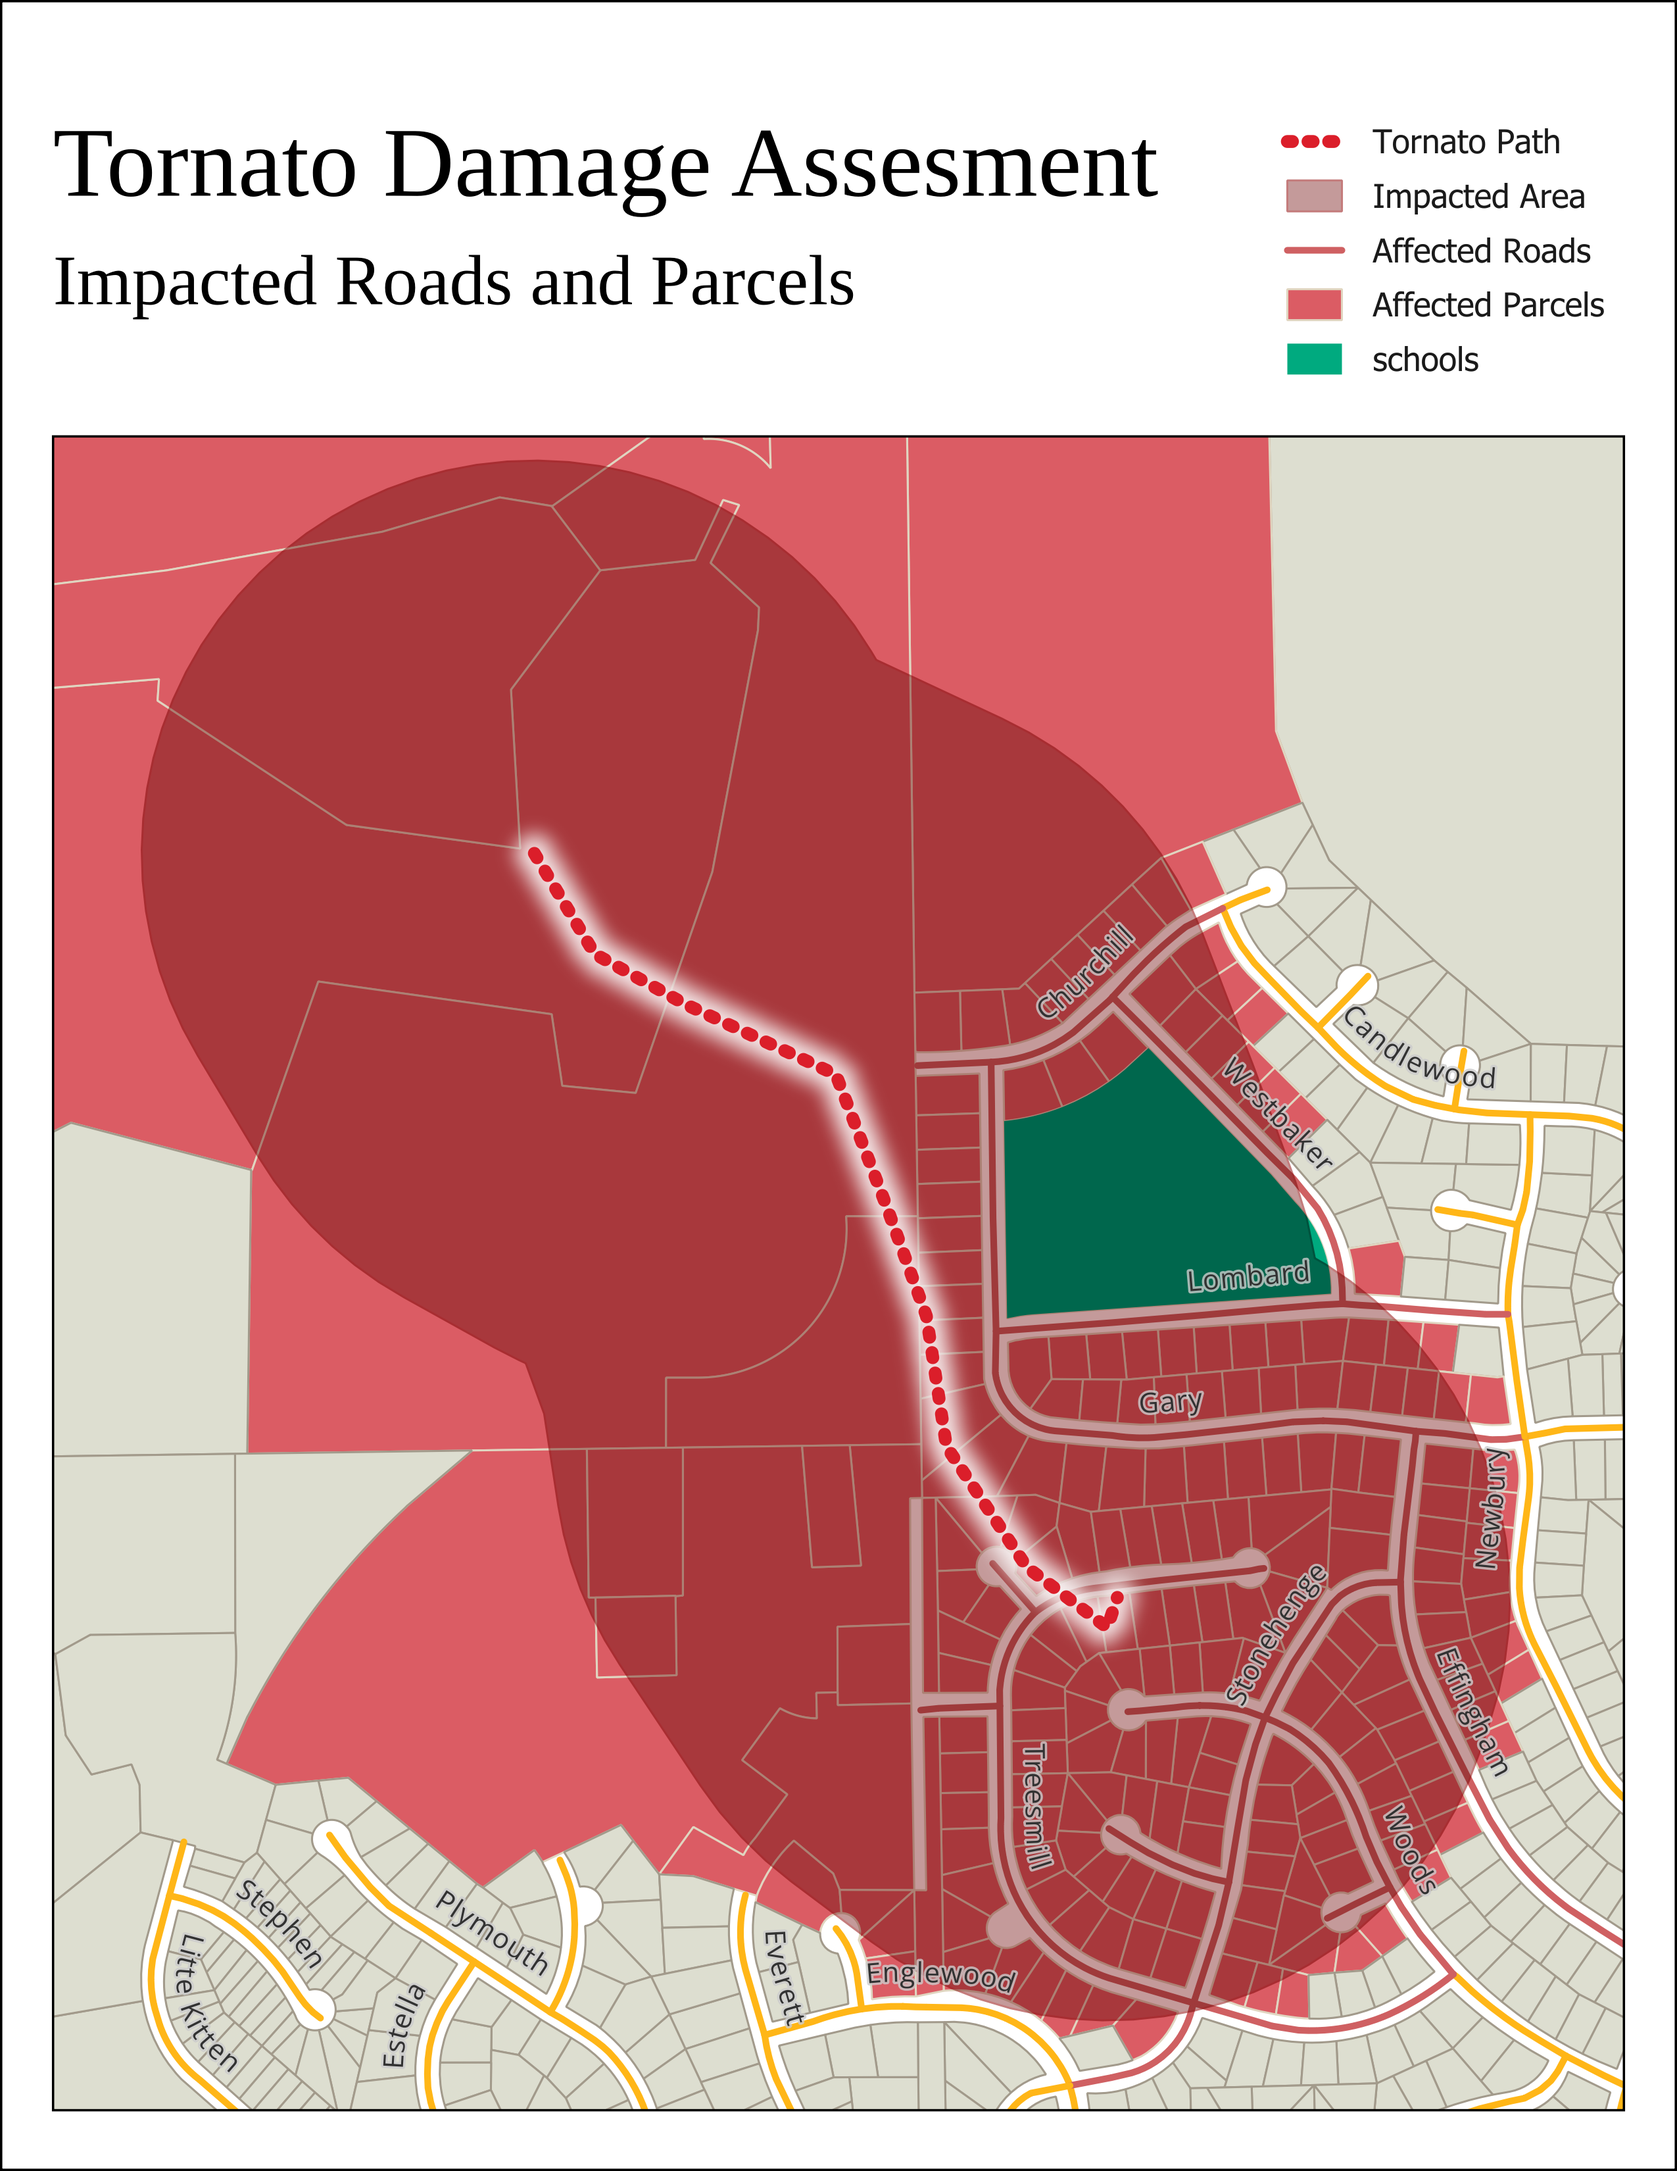
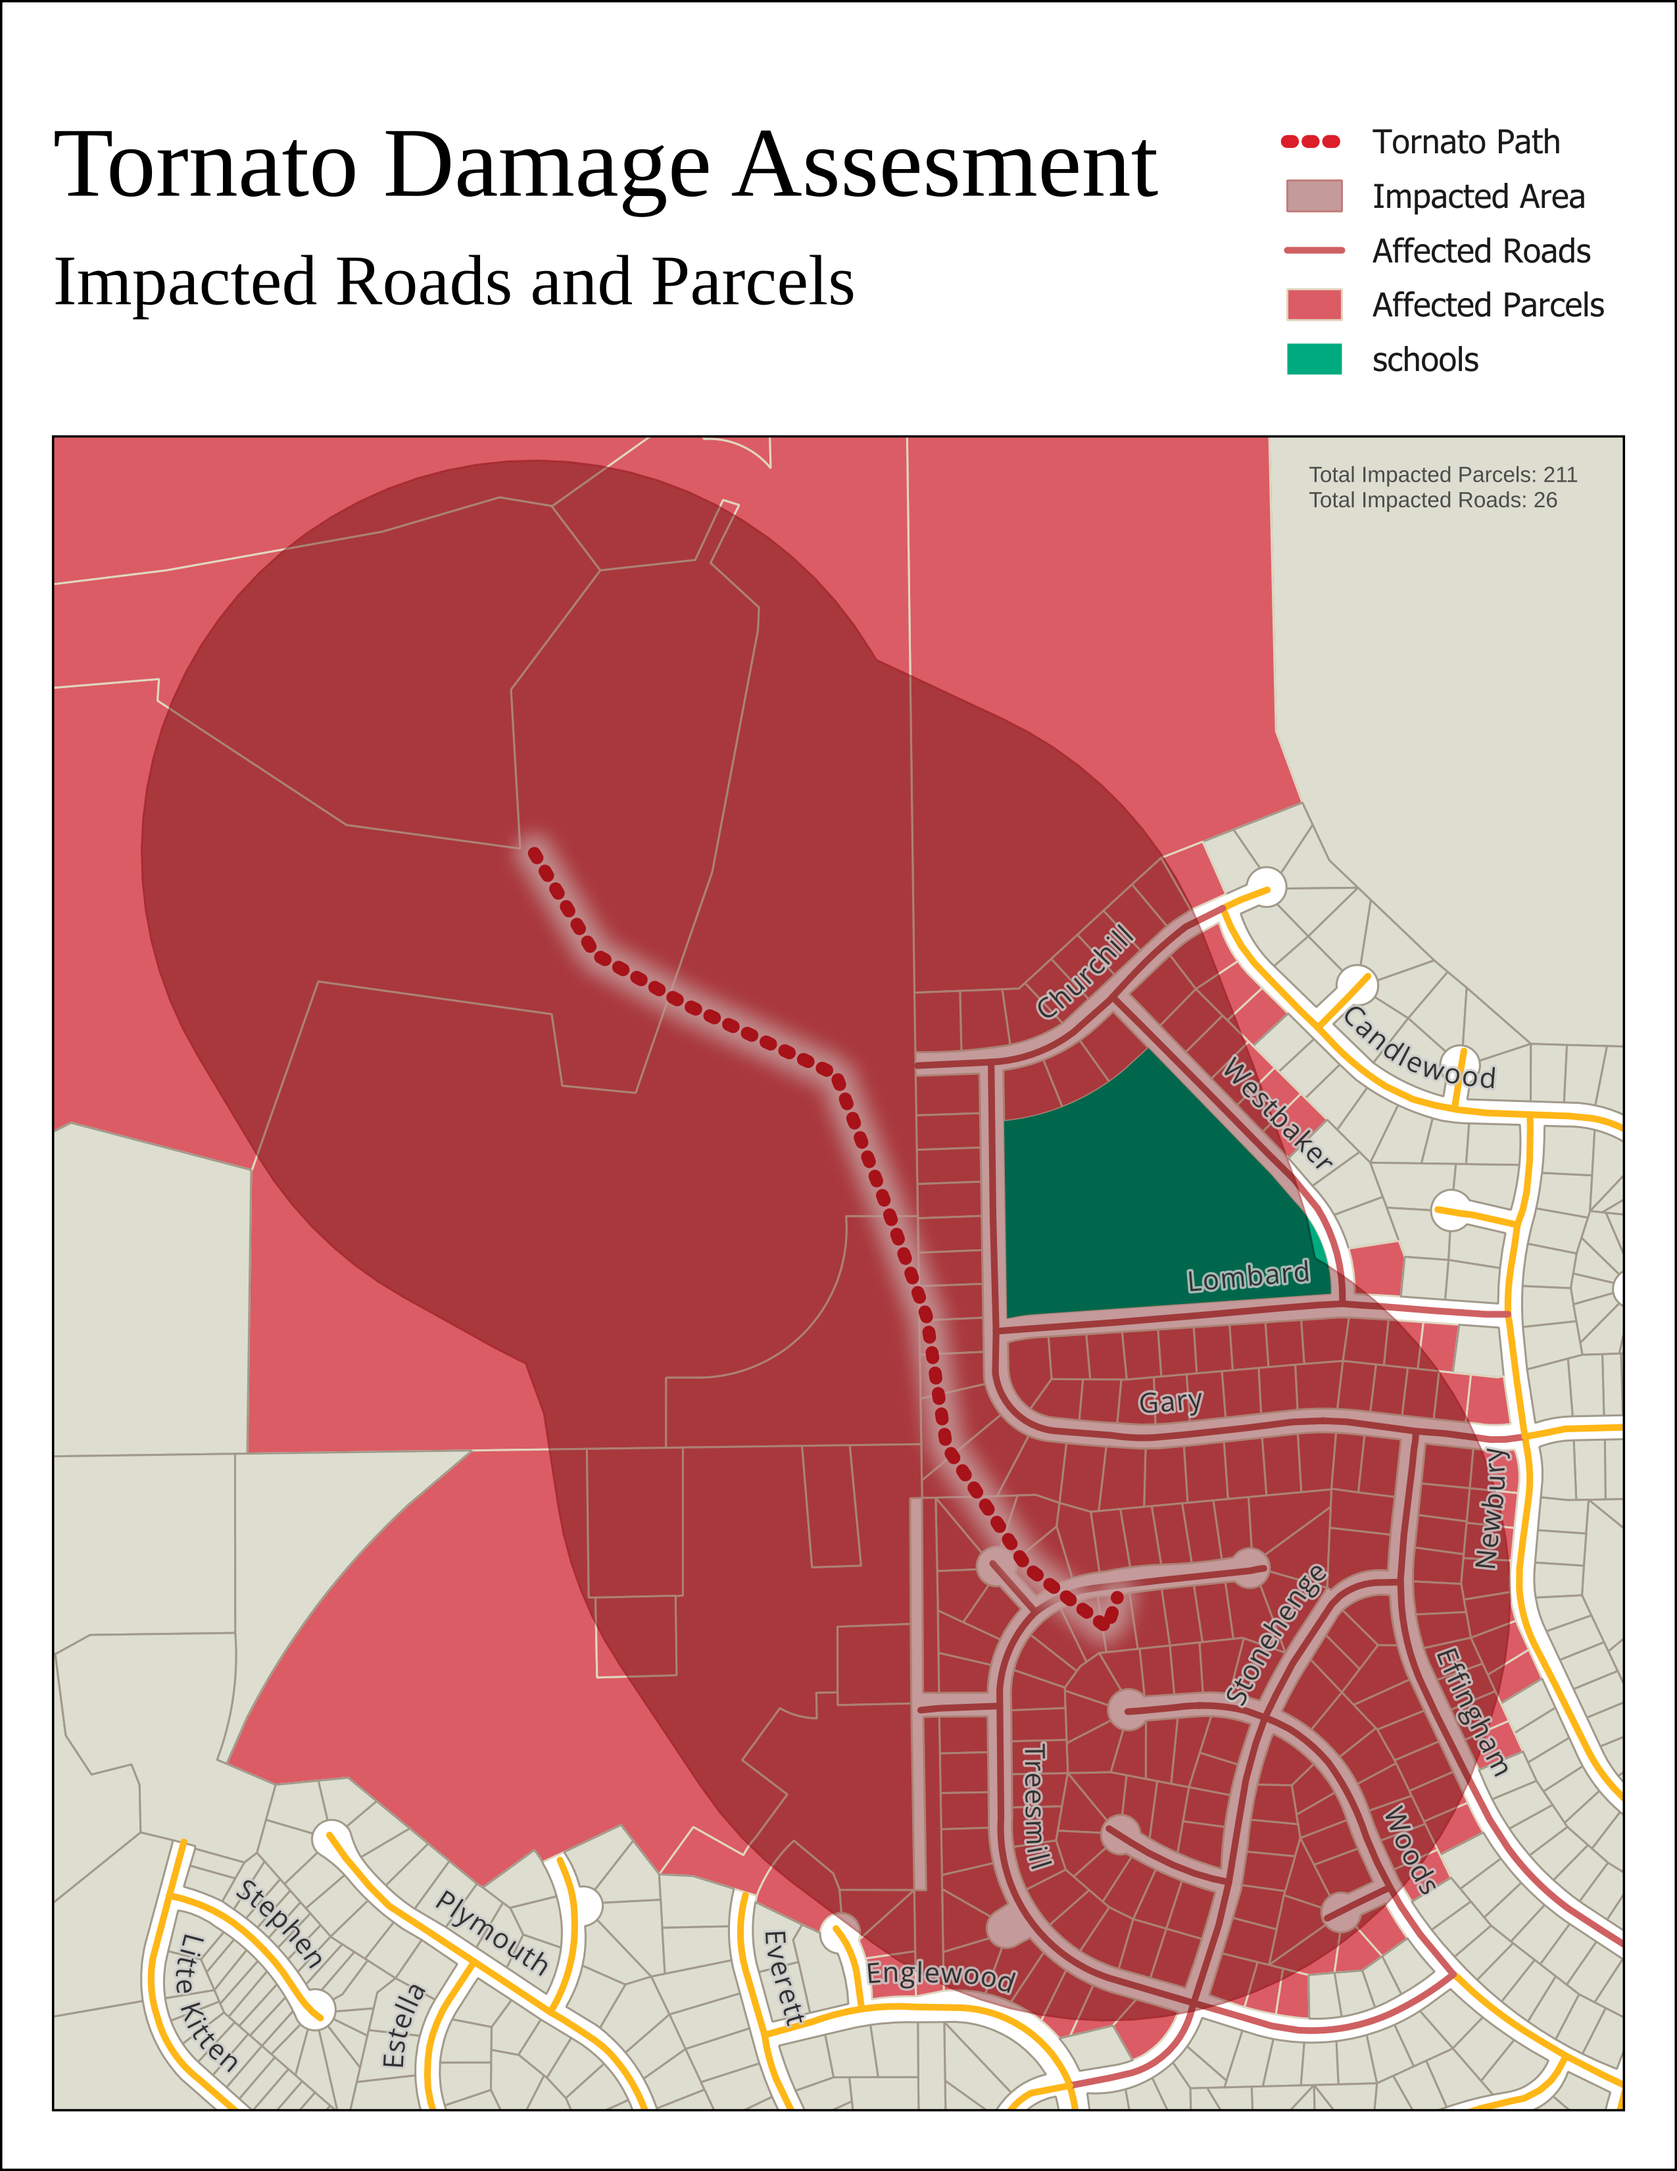
Updates

Changed region(s): [[0.3098, 0.3745, 0.6816, 0.7803], [0.7745, 0.2185, 0.9294, 0.2497]]

diff --git a/pages/discover-qgis-maps.html b/pages/discover-qgis-maps.html
@@ -22,6 +22,8 @@
         <div class="navbar">
             <ul>
                 <li><a>Riley Buoen</a></li>
+                <li><a href="#spatial-analysis" class="nav-links" style="font-size: 0.9em;">Spatial Analysis</a></li>
+                <li><a href="#data-management" class="nav-links" style="font-size: 0.9em;">Data Acquisition and Management</a></li>
                 <li><a href="../index.html" class="nav-links">Back</a></li>
             </ul>
         </div>
@@ -30,16 +32,22 @@
         <div class="content">
 
             <!-- INTODUCTION -->
+
             <h2>Discover QGIS 3.X Maps</h2>
+
             <p style="padding-bottom: 20px;">
                 I recently stumbled upon the book <a href="https://locatepress.com/book/dq32">Discover QGIS 3.X - Second Edition</a> by Kurt Menke and decided to pick up a copy and go through it. I enjoy learning through books so I thought this would be a good way to get more acquanted with QGIS and strengthen my GIS fundamentals at the same time. These are some of the projects from the book.
             </p>
+
             <div class="full-img-gallery">
-                <article class="project_container proj-center">
+
+                <article class="project_container">
                     <a href="../images/fulls/exercise2_Map.jpg"><img class="multi-img" src="../images/fulls/exercise2_Map.jpg" alt=""></a>
                 </article>
-    
-                <article class="project_container proj-center">
+
+                <h3 id="spatial-analysis" style="padding-bottom: 20px; padding-top: 20px;">Spatial Analysis</h3>
+
+                <article class="project_container">
                     <a href="../images/fulls/exercise_5_final.jpg"><img class="multi-img" src="../images/fulls/exercise_5_final.jpg" alt=""></a>
                     <ul>
                         <li>Filtered layers and selected features using SQL expressions</li>
@@ -47,7 +55,7 @@
                     </ul>
                 </article>
     
-                <article class="project_container proj-center">
+                <article class="project_container">
                     <a href="../images/fulls/P2_E1_population_density.jpg"><img class="multi-img" src="../images/fulls/P2_E1_population_density.jpg" alt=""></a>
                     <ul>
                         <li>Preformed join between table and attribute table</li>
@@ -55,10 +63,17 @@
                     </ul>
                 </article>
     
-                <article class="project_container proj-center">
+                <article class="project_container">
                     <a href="../images/fulls/tornato_impact.png"><img class="multi-img" src="../images/fulls/tornato_impact.png" alt=""></a>
+                    <ul>
+                        <li>Used buffer operation combined with select by location operation to determine roads and parcels affected by a tornato</li>
+                        <li>Used basic statistical tool to determine total number of parcels impacted</li>
+                    </ul>
                 </article>
+
             </div>
+
+            <!-- <h3 id="data-management" style="padding-bottom: 20px;">Data Acquisition and Management</h3> -->
 
             <!-- Contact Info -->
             <article id="contact">

diff --git a/assest/styles.css b/assest/styles.css
@@ -70,6 +70,10 @@ h3 {
     padding-bottom: 20px;
 }
 
+#small-txt-links {
+    font-size: 0.5em;
+}
+
 .navbar a {
     font-size: 1.2em;
     color: black;
@@ -93,10 +97,6 @@ h3 {
     height: 100%;
     padding: 10px;
 }
-
-/* .content article {
-    padding-bottom: 50px;
-} */
 
 /* Image Gallery Styles */
 
@@ -234,18 +234,10 @@ span.email b {
 }
 
 /* Project Pages Styles */
-    
-
-.proj-center {
-    margin: 0 auto;
-    width: 700px;
-    height: auto;
-    padding-bottom: 50px;
-}
 
 .project_container ul {
-    margin: 1em;
-    margin-top: 0em;
+    margin-left: 2em;
+    padding-bottom: 20px;
 }
 
 /* PROJECT IMAGE STYLE */
@@ -263,7 +255,12 @@ span.email b {
 /* Multiple images on a single page */
 .multi-img {
     height: 100%;
-    width: 700px;
+    width: 100%;
+    display: block;
+    margin-left: auto;
+    margin-right: auto;
+    object-fit: contain;
+    padding-bottom: 5px;
 }
 
 .project_container p {
